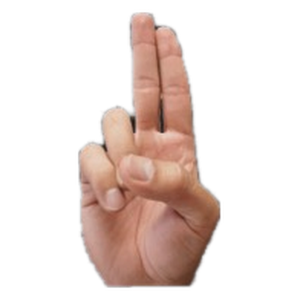
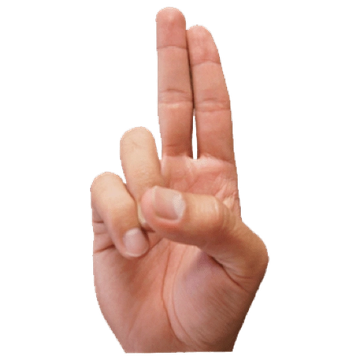
Abecedario LSM con los stickers originales de WhatsApp (mejor calidad)
Claude-Session: https://claude.ai/code/session_015Bpbc8EAm3Wz5jihEE32WP

diff --git a/CLAUDE.md b/CLAUDE.md
@@ -37,7 +37,7 @@ Este repositorio guarda tarjetas para que Valeria aprenda el **código escrito**
   4. **muévete**: un salto de tijera por sílaba, diciendo o señando cada una.
 - **Manos LSM (dactilología) encima de cada letra**: un sticker en miniatura por letra, tomado de `abecedario/<letra>.png` (los stickers los manda el usuario; **no inventes configuraciones**). `generar.js` avisa qué stickers faltan.
   - Cada sticker va en un **círculo blanco** encima de su letra. **Dígrafos (ll, rr, ch)**: una sola **cápsula blanca** abarca las dos letras (son una sola letra, un solo sonido); dentro van la mano de la primera letra, copias de la mano **en escala de grises** cada vez más tenues (el movimiento) y la mano de la segunda letra.
-  - Los stickers salieron de una imagen del abecedario LSM que mandó el usuario (27 letras, a–z con ñ; la ll se forma con dos l). Para volver a recortarlos: `python3 plantilla/recortar_abecedario.py IMAGEN` (rellena las sombras dentro de la mano para que no queden huecos blancos). Revisa siempre los recortes sobre fondo blanco.
+  - Los stickers son los **originales del paquete de WhatsApp** del usuario (27 letras, a–z con ñ; transparentes, 512 px), exportados con "Exportar chat → Adjuntar archivos". La ll se forma con dos l. Si mandan otro paquete así: descomprime el .zip, ordena los .webp por nombre, recorta al contenido y guarda en `abecedario/<letra>.png`. `plantilla/recortar_abecedario.py` queda como respaldo para recortar desde una imagen con fondo liso. Revisa siempre los stickers sobre fondo de color.
 - La versión anterior está en `plantilla/generar-v1.js` y `tarjetas/anteriores/`.
 
 ## Reglas de diseño (aplícalas a TODAS las tarjetas)
